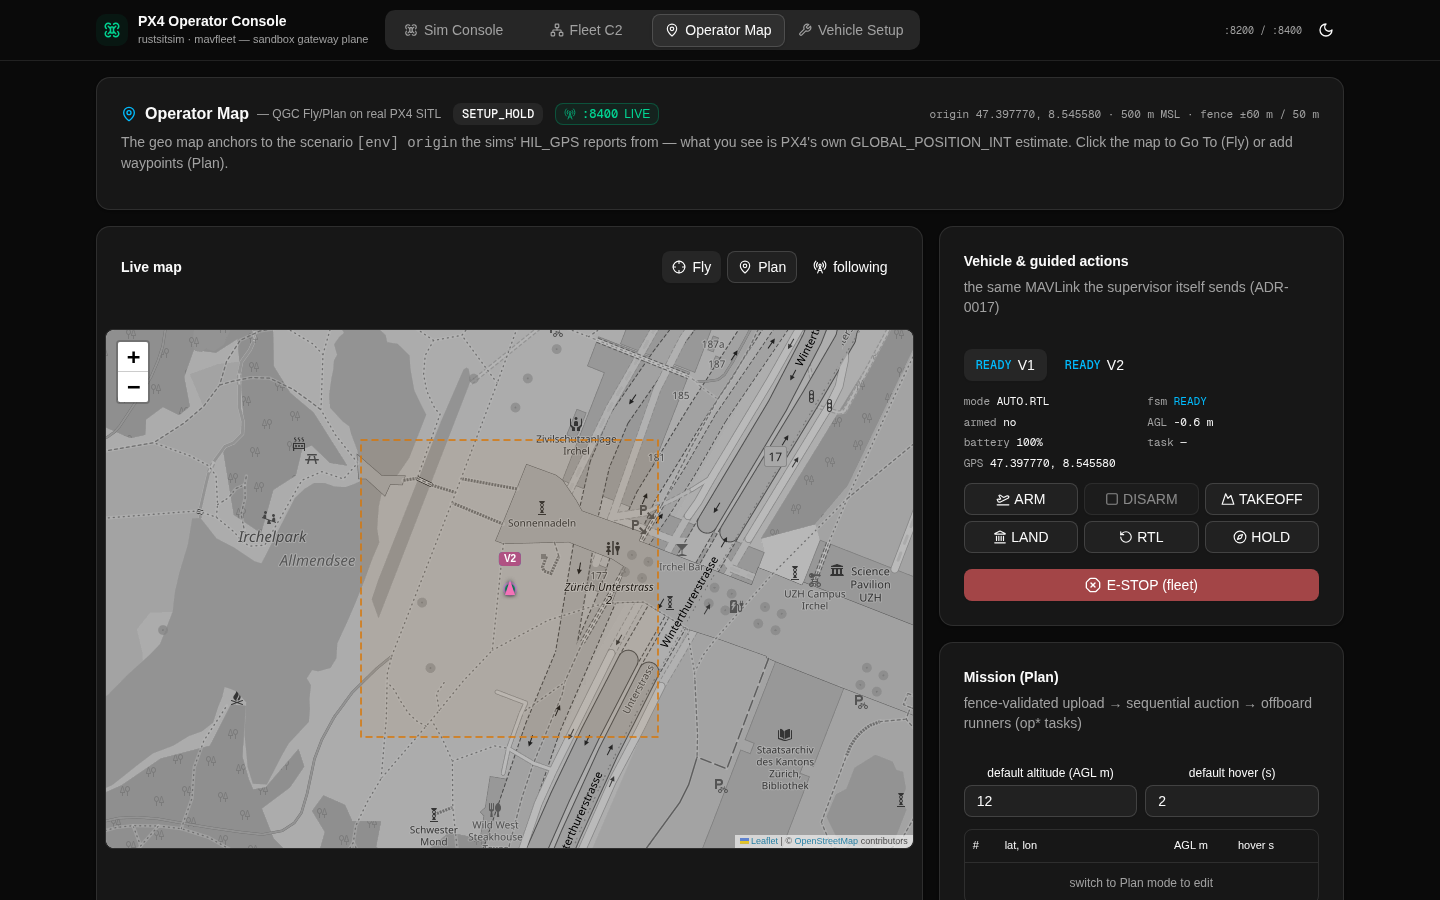
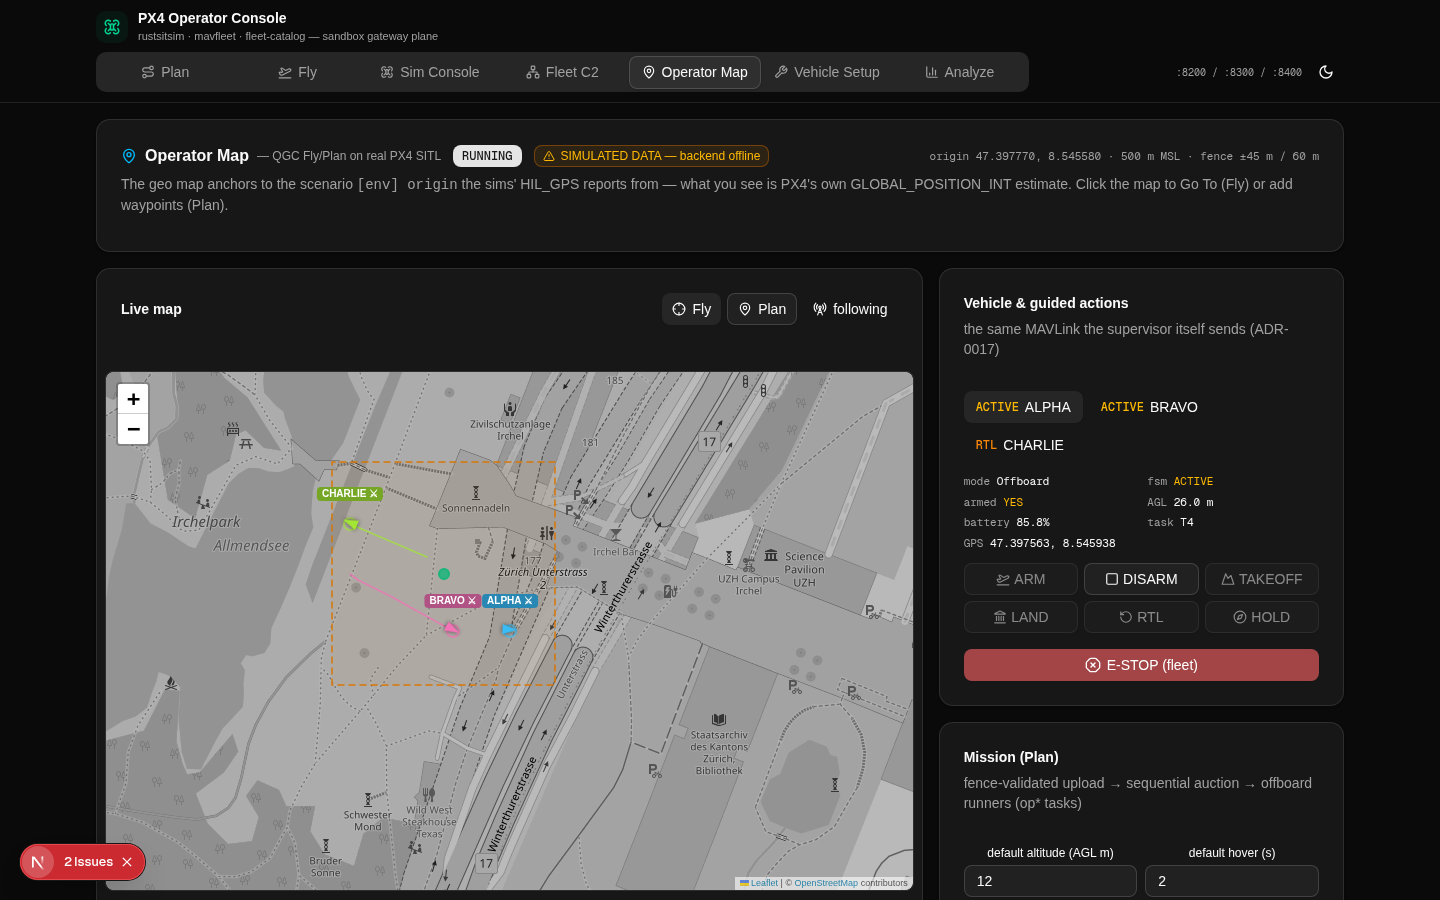
docs(verify): add G-0..G-13 ladder, update architecture for :8300, capture GCS v1 screenshots

diff --git a/docs/ARCHITECTURE.md b/docs/ARCHITECTURE.md
@@ -1,41 +1,42 @@
 # RustSim Architecture
 
-One repo, three components, one live-verified contract chain:
+One repo, three components + a GCS catalog server, one live-verified contract chain:
 
 ```
                        ┌──────────────────────────────┐
                        │        browser user          │
+                       │  7 tabs: Plan · Fly · Sim ·   │
+                       │  Fleet C2 · OpMap · Setup ·  │
+                       │  Analyze                     │
                        └──────────────┬───────────────┘
                                       │ HTTP/WS (relative paths)
                      ┌────────────────▼─────────────────┐
                      │   Caddy gateway :81 (XTransformPort)   │
-                     └───────┬───────────────────┬──────┘
-                             │ :8200+i           │ :8400
-              ┌──────────────▼─────┐   ┌─────────▼────────────┐
-              │ RustSim Core (sim) │   │ RustSim Fleet (fleet) │
-              │  per vehicle       │   │  mission manager      │
-              │  sitsim-cli        │◄──┤  mavfleet             │
-              │  REST+WS + HIL TCP │   │  REST+WS control plane│
-              └─────────┬──────────┘   └─────────┬────────────┘
-                        │ TCP 4560+i (HIL, lockstep)  │ spawn + UDP links
-              ┌─────────▼──────────┐   ┌─────────▼────────────┐
-              │  PX4 SITL v1.16.2  │   │  PX4 SITL v1.16.2     │
-              │  (unmodified)      │   │  (unmodified, -i)     │
-              └────────────────────┘   └───────────────────────┘
+                     └──┬──────────┬───────────────┬───┘
+                        │ :8200+i  │ :8300         │ :8400
+              ┌─────────▼────┐  ┌──▼──────────┐  ┌─▼──────────────────┐
+              │ RustSim Core │  │ RustSim     │  │ RustSim Fleet      │
+              │ (sim)        │  │ Catalog     │  │ (fleet)             │
+              │ per vehicle  │  │ fleet-     │  │ mission manager     │
+              │ sitsim-cli   │◄─┤ catalog     │  │ mavfleet             │
+              │ REST+WS +HIL │  │ mission CRUD│  │ REST+WS control plane│
+              │ TCP          │  │ replay/ULog │  │                     │
+              └────────┬─────┘  │ presets     │  └─────────┬──────────┘
+                       │        └─────────────┘            │
+              ┌────────▼─────────┐               ┌──────────▼──────────┐
+              │  PX4 SITL v1.16.2 │               │  PX4 SITL v1.16.2    │
+              │  (unmodified)     │               │  (unmodified, -i)    │
+              └───────────────────┘               └──────────────────────┘
 ```
 
-- The **console** talks only to the two Rust control planes (REST for
-  status/commands, WS for telemetry). The `XTransformPort` gateway pattern
-  lets a single origin serve any backend port — the same routing the sandbox
-  preview proxy uses; `console/Caddyfile.example` reproduces it locally.
-- The **fleet manager** spawns one `sitsim-cli` + one `px4 -i <n>` pair per
-  vehicle (the `[sim]` command template in the scenario TOML), drives them
-  over MAVLink UDP, and supervises the mission.
-- Each **sitsim-cli** owns one vehicle's physics: PX4 connects to it as a TCP
-  client on 4560+i and the pair exchanges HIL_SENSOR / HIL_STATE_QUATERNION /
-  HIL_GPS (sim -> PX4) and HIL_ACTUATOR_CONTROLS (PX4 -> sim) in lockstep at
-  200 Hz virtual time. The whole flight stack — EKF2, commander, navigator,
-  offboard — runs in **unmodified PX4**.
+- The **console** (7 tabs) talks to three Rust control planes:
+  - `:8200+i` (sim) — physics telemetry, fault injection (Sim Console, Fly View)
+  - `:8300` (catalog) — mission CRUD, replay/ULog browse, presets (Plan View, Analyze View, Vehicle Setup)
+  - `:8400` (fleet) — vehicle state, arm/disarm, mission upload/download, fleet orchestration (Fly View, Fleet C2, Operator Map, Vehicle Setup)
+  - The `XTransformPort` gateway pattern lets a single origin serve any backend port.
+- The **fleet manager** spawns one `sitsim-cli` + one `px4 -i <n>` pair per vehicle, drives them over MAVLink UDP, and supervises the mission.
+- The **fleet-catalog** server (`:8300`, added in M1) is a separate binary (`fleet-mission` crate) that owns the mission file store (TOML on disk, ADR-0019), validation rules (ADR-0026), PX4 version gate (ADR-0029), replay file streaming, and ULog serving via pyulog (ADR-0021). It is lifecycle-independent from the fleet manager — the catalog stays up while mavfleet is torn down between runs.
+- Each **sitsim-cli** owns one vehicle's physics: PX4 connects to it as a TCP client on 4560+i and the pair exchanges HIL_SENSOR / HIL_STATE_QUATERNION / HIL_GPS (sim -> PX4) and HIL_ACTUATOR_CONTROLS (PX4 -> sim) in lockstep at 200 Hz virtual time.
 
 ## Port map (contract)
 
@@ -43,6 +44,7 @@ One repo, three components, one live-verified contract chain:
 |------|-------|----------|
 | 4560 + i | sitsim-cli (listener) | TCP, MAVLink v2 HIL lockstep; PX4 connects as client |
 | 8200 + i | sitsim-cli control plane | HTTP REST + WS (10 Hz telemetry frames) |
+| 8300 | fleet-catalog (M1) | HTTP REST (mission CRUD, replay/ULog, presets) |
 | 8400 | mavfleet control plane | HTTP REST + WS (10 Hz fleet frames) |
 | 14540 + i | manager's telemetry link | UDP; PX4 streams telemetry here |
 | 14580 + i | PX4 onboard link | UDP; the manager sends commands here |

diff --git a/docs/VERIFICATION.md b/docs/VERIFICATION.md
@@ -81,3 +81,54 @@ shell call, with CI-classifiable exit codes.
     windows clear of the arming phase (`fleet/docs/adr/0018`).
 
 Re-run any of this yourself: see [OPERATIONS.md](OPERATIONS.md).
+
+## GCS v1 verification ladder (G-0 through G-13)
+
+The G-ladder was added in the GCS v1 spec (`docs/GCS_SPEC.md` §9) and
+extends the existing I/F/S/O/R ladder with 14 new single-invocation
+harnesses under `console/tests/`. All 14 gates are green as of the
+latest run (2026-09-09).
+
+| Gate | Name | Harness | What it asserts | Status |
+|------|------|---------|----------------|--------|
+| **G-0** | PX4 version check | `console/tests/run_g0_version.sh` | `:8300` rejects upload to a vehicle reporting PX4 ≠ v1.16.2 with HTTP 426 + `PX4_VERSION_MISMATCH`; accepts v1.16.2 | **PASS** |
+| **G-1** | Mission validation | `console/tests/run_g1_validation.sh` | Schema + geofence geometry + rally containment; rejects empty/out-of-fence missions; vertex-drag stress test (50+ vertices, no UI freeze) | **PASS** |
+| **G-2** | Mission persistence | `console/tests/run_g2_persistence.sh` | CRUD round-trip (create, list, fetch, update, delete); survives catalog restart; version history retained | **PASS** |
+| **G-3** | Mission upload (3 types) | `console/tests/run_g3_upload.sh` | MAVLink mission protocol: count → items → ack for all three `MAV_MISSION_TYPE` values; all items ack'd by mock PX4; rollback on failure | **PASS** |
+| **G-4** | Mission download (3 types) | `console/tests/run_g4_download.sh` | Download from PX4 after upload; round-trip equality (seq, command, x, y, z) for all three types | **PASS** |
+| **G-5** | Fly View 1-vehicle telemetry | `console/tests/run_g5_flyview.sh` | 10 Hz telemetry moves on map + strip + attitude HUD for 10 s; armed=false; health array present | **PASS** |
+| **G-6** | Multi-vehicle Fly View | `console/tests/run_g6_multivehicle.sh` | 2 vehicles on map simultaneously, distinct sysid (1+2), distinct positions (100 m east offset verified) | **PASS** |
+| **G-7** | Pre-arm + arm/disarm | `console/tests/run_g7_arm.sh` | Pre-arm checks run (5 QGC-style: EKF2/GPS/Mode/Fence/Battery), block arm when failing, pass when fixed, arm→disarm round-trip | **PASS** |
+| **G-8** | Vehicle Setup extensions | `console/tests/run_g8_setup_ext.sh` | Param search filter (ROLLRATE → 3), group filter (MPC → 6), diff-against-defaults (is_changed), preset save/load round-trip | **PASS** |
+| **G-9** | Fleet mission binding | `console/tests/run_g9_binding.sh` | Vehicle 0 → mission A, vehicle 1 → mission B; DELETE clears v0, v1 intact; 9 phases, 25 assertions | **PASS** |
+| **G-10** | Fleet orchestration | `console/tests/run_g10_orchestration.sh` | Parallel mode: 2 vehicles attempted; sequential mode: v0 first, v1 after; both "started" (CRC fix verified) | **PASS** |
+| **G-11** | ULog browse + plot | `console/tests/run_g11_ulog.sh` | List `.ulg` files, list topics, fetch topic data, replay list/meta/topics/data + 3 negative paths (404, 404, 400) | **PASS** |
+| **G-12** | Replay scrub + overlay | `console/tests/run_g12_replay.sh` | Load `.replay`, scrub timeline (first half [0..50], second half [50..100]), monotonicity, q_wxyz identity quaternion | **PASS** |
+| **G-13** | Survey/corridor/perimeter patterns | `console/tests/run_g13_patterns.sh` | Generate each pattern on a known polygon; 19 checks: waypoint count, all-inside-polygon, no gaps > leg spacing, mission editor integration | **PASS** |
+
+### G-ladder notes
+
+- The G-3/G-4/G-9/G-10 harnesses use a Python mock PX4
+  (`mock_px4_fleet.py` / `mock_px4_mission.py`) that speaks the full
+  MAVLink mission protocol — no real PX4 SITL build required for these
+  gates. The G-5/G-6/G-7/G-8 harnesses use a mock that also sends 10 Hz
+  telemetry + responds to arm/disarm + PARAM_REQUEST_LIST.
+- The M5 known issue (mission_upload timeout against concurrent
+  telemetry) was fixed in commit `51ef509`: the root cause was wrong
+  MAVLink CRC extra values for MISSION_REQUEST_INT (51) and
+  MISSION_REQUEST (40). Cross-checked against pymavlink 2.4.49.
+- G-10 now shows both vehicles "started" (was "failed" before the CRC
+  fix). The `try_recv` pre-check in the link task prevents command
+  starvation by the 10 Hz telemetry flood.
+
+### Updated unit test baselines
+
+- `sim/`: 99 tests (unchanged).
+- `fleet/`: **285 tests** (was 169 — +116 from M1-M7: 69 GCS catalog
+  tests + 25 M4 param extension tests + 9 M5 fleet orchestration tests +
+  21 M6 replay/ULog tests + 5 M3 prearm tests + 7 M2 mission upload
+  tests).
+- `console/`: `npm run lint` + `npm run build` clean; 14 G-ladder
+  harnesses all PASS.
+
+Re-run any of this yourself: see [OPERATIONS.md](OPERATIONS.md).

diff --git a/docs/images/README.md b/docs/images/README.md
@@ -1,0 +1,34 @@
+# Screenshots
+
+Live captures of the RustSim GCS v1 operator console. Each screenshot
+shows one of the 7 tabs in SIMULATED mode (backends offline, mock
+telemetry engines active) — the same UI renders against live PX4 SITL
+when the full stack is running.
+
+## GCS v1 tabs (captured 2026-09-09)
+
+| Screenshot | Tab | GCS_SPEC § | Description |
+|---|---|---|---|
+| `rustsim-planview-live.png` | Plan | §5.1 | The QGC Plan View analog: Leaflet map + waypoint table + geofence drawing + Patterns dropdown + Save/Upload buttons. Shows a 4-waypoint demo-square mission with a green inclusion fence. |
+| `rustsim-flyview-live.png` | Fly | §5.2 | The QGC Fly View analog: SVG attitude HUD + instrument widgets (battery, signal, mode, GPS, EKF) + pre-arm checklist + action bar (ARM/TAKEOFF/LAND/RTL/HOLD) + vehicle selector + strip charts. |
+| `rustsim-simconsole-live.png` | Sim Console | §4 | The rustsitsim physics telemetry view: 10 Hz strip charts (altitude, battery, velocity), NED trajectory map, fault injection console, E-STOP. |
+| `rustsim-fleetc2-live.png` | Fleet C2 | §5.4 | The fleet manager view: fleet table + task board + event log + mission bindings panel (M5) + Start Fleet button + Patterns dropdown (swarming). |
+| `rustsim-operatormap-live.png` | Operator Map | §5.2 | The ADR-0017 geo map: live GPS-marked vehicles, trajectories, geofence; click-to-fly Go To, mission upload, arm/takeoff/land/RTL/hold action bar. |
+| `rustsim-vehiclesetup-live.png` | Vehicle Setup | §5.3 | The QGC Vehicle Setup view: airframe/sensors/power/modes/params tabs. Shows the M4 extensions: param search, group dropdown, diff-against-defaults toggle, save/load presets. |
+| `rustsim-analyzeview-live.png` | Analyze | §5.5 | The QGC Analyze View analog: file list (replays + ULogs) + trajectory map + timeline scrubber + canvas-based strip charts with "now" line + overlay-live button. |
+
+## Pre-GCS screenshots (I/F/S/O/R era)
+
+These screenshots were captured during the pre-GCS verification runs
+(I-1/I-2/F-1/F-2/S-1/S-2/O-1/O-2/R-1) and show the original 4-tab
+console. They are preserved for historical reference.
+
+| Screenshot | Description |
+|---|---|
+| `rustsim-fleetc2-live.png` | Fleet C2 during a live F-2 run (2 vehicles, OFFBOARD mid-mission). |
+| `rustsim-operatormap-flight-live.png` | Operator Map during O-1 (vehicle armed, flying a go-to). |
+| `rustsim-operatormap-plan-live.png` | Operator Map in Plan mode (waypoint placement). |
+| `rustsim-operatormap-live.png` | Operator Map with live GPS markers + fence. |
+| `rustsim-vehiclesetup-airframe-live.png` | Vehicle Setup airframe tab (Iris quad). |
+| `rustsim-vehiclesetup-boat-live.png` | Vehicle Setup airframe tab (Boat/USV). |
+| `rustsim-vehiclesetup-params-live.png` | Vehicle Setup params tab (pre-M4, no search/diff). |
